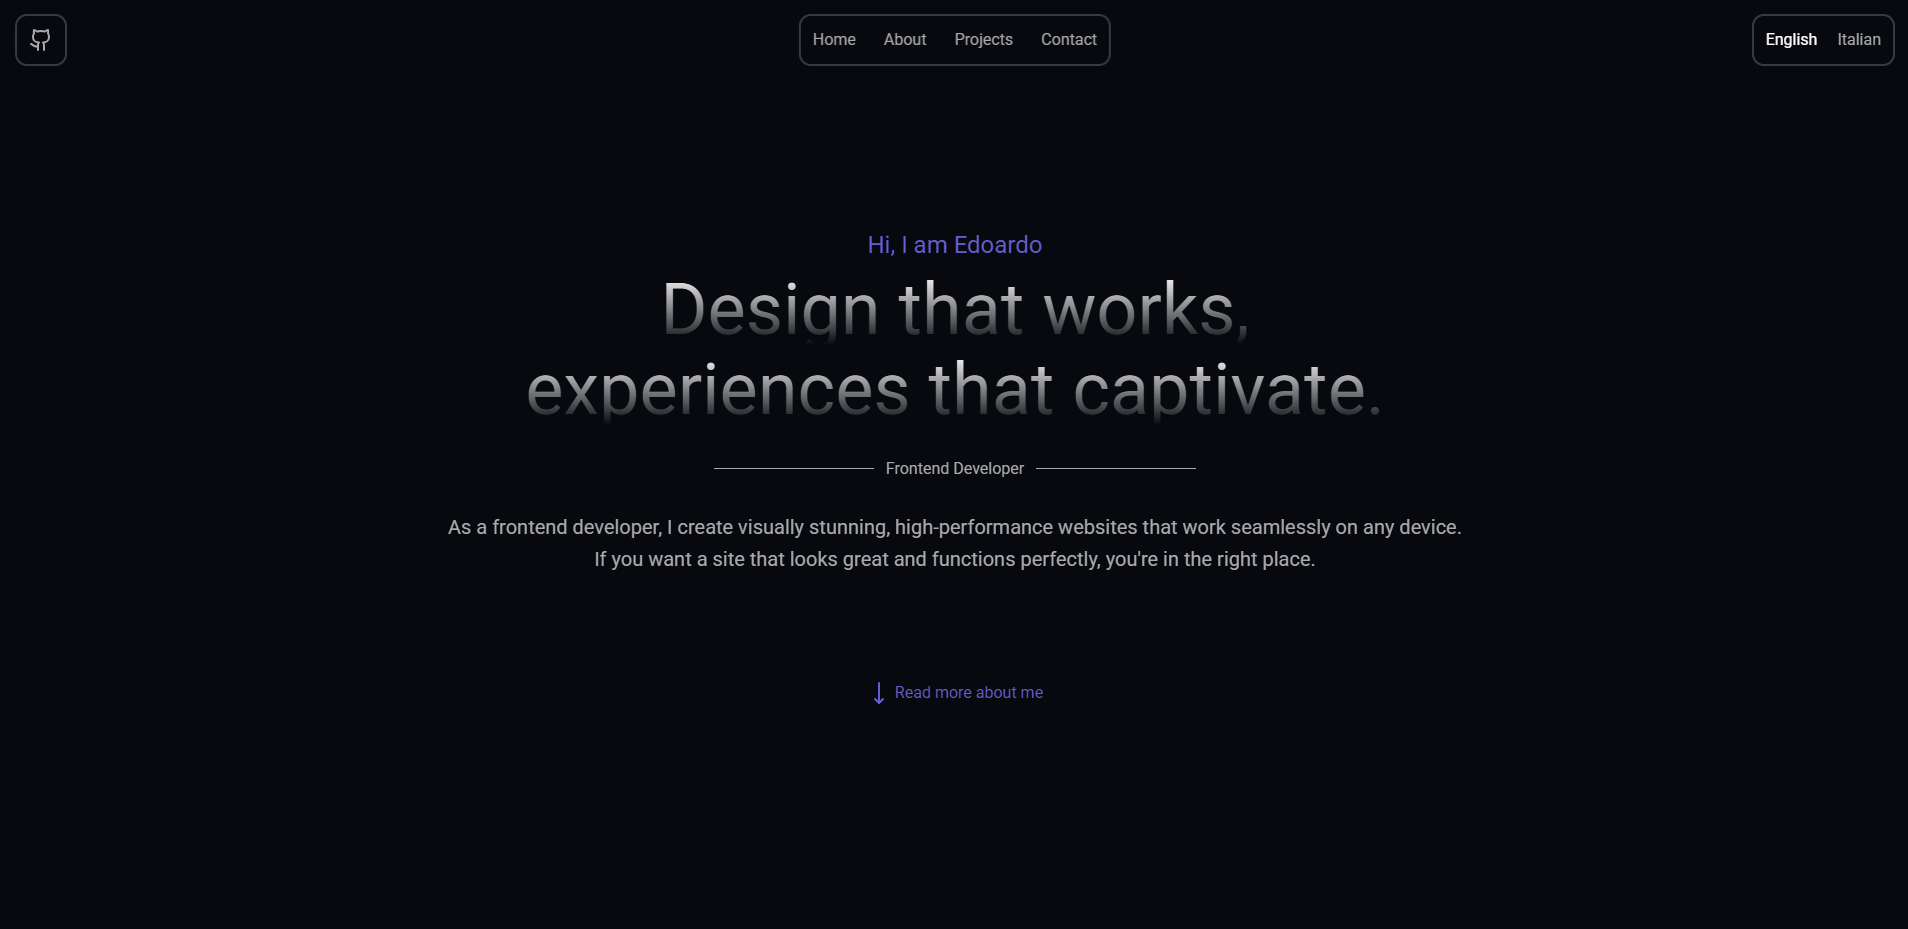
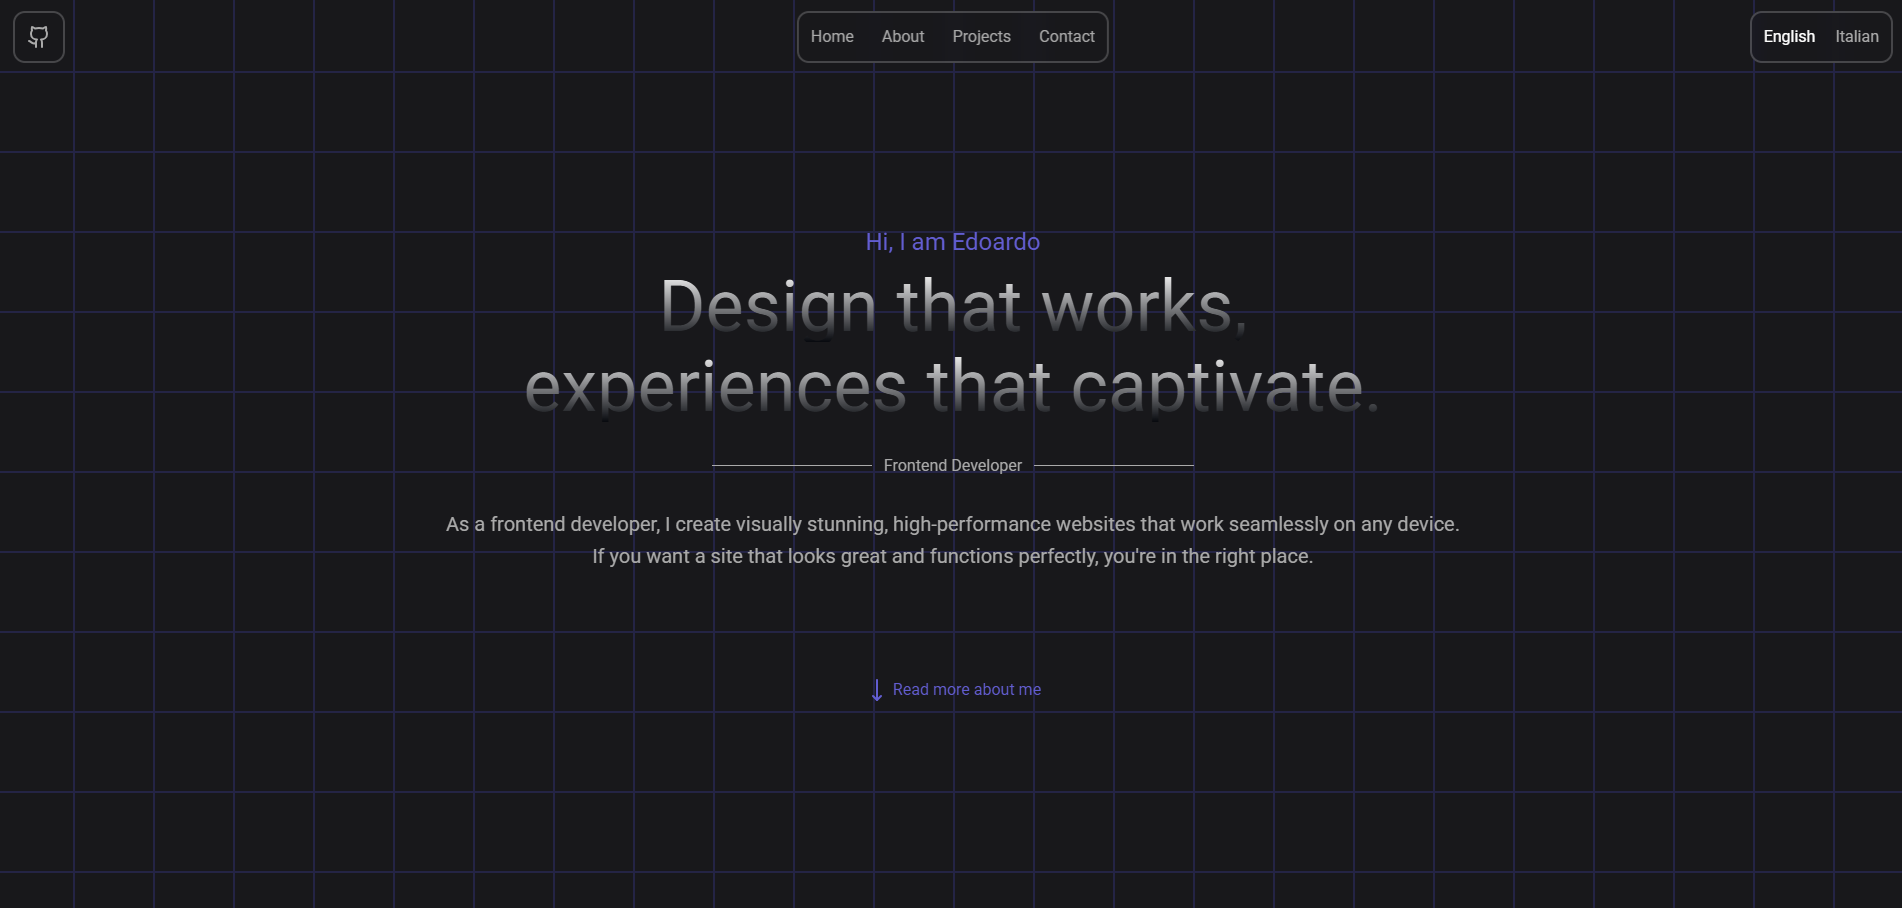
changed the bg

diff --git a/index.html b/index.html
@@ -4,10 +4,13 @@
     <meta charset="UTF-8" />
     <meta name="viewport" content="width=device-width, initial-scale=1.0" />
     <link rel="icon" href="./logo.png" type="image/x-icon" />
+    <meta property="og:title" content="Edoo29 Portfolio" />
+    <meta
+      property="og:description"
+      content="My Personal Portfolio made in React"
+    />
     <meta property="og:image" content="./preview.png" />
-    <meta property="og:image:type" content="image/png" />
-    <meta property="og:image:width" content="300" />
-    <meta property="og:image:height" content="300" />
+    <meta property="og:url" content="edoo29-personal-portfolio.vercel.app" />
     <meta
       name="description"
       content="My personal portfolio showcasing my skills in web development"

diff --git a/src/App.tsx b/src/App.tsx
@@ -1,7 +1,6 @@
 import About from "./components/about.tsx";
 import ContactMe from "./components/contact-me.tsx";
 import Hero from "./components/hero.tsx";
-import MorphBg from "./components/morph-bg.tsx";
 import Navbar from "./components/navbar.tsx";
 import Projects from "./components/projects.tsx";
 import ScrollProgress from "./components/scroll-progress.tsx";
@@ -12,11 +11,8 @@ function App() {
       <Navbar />
       <ScrollProgress />
       <Hero />
-      <MorphBg />
       <About />
-      <MorphBg />
       <Projects />
-      <MorphBg />
       <ContactMe />
     </>
   );

diff --git a/src/index.css b/src/index.css
@@ -3,8 +3,9 @@
 
 :root {
   --color-shadows: #aaaaaa;
-  --background-color: #07090e;
+  --black: #18181b;
   --purple: #625dd1;
+  --blue: #242445;
 }
 
 * {
@@ -13,7 +14,14 @@
 }
 
 body {
-  background-color: var(--background-color);
+  background-color: var(--black);
+}
+
+#home,
+#projects {
+  background-image: linear-gradient(var(--blue) 0.1em, transparent 0.1em),
+    linear-gradient(90deg, var(--blue) 0.1em, transparent 0.1em);
+  background-size: 5em 5em;
 }
 
 .border-glass {
